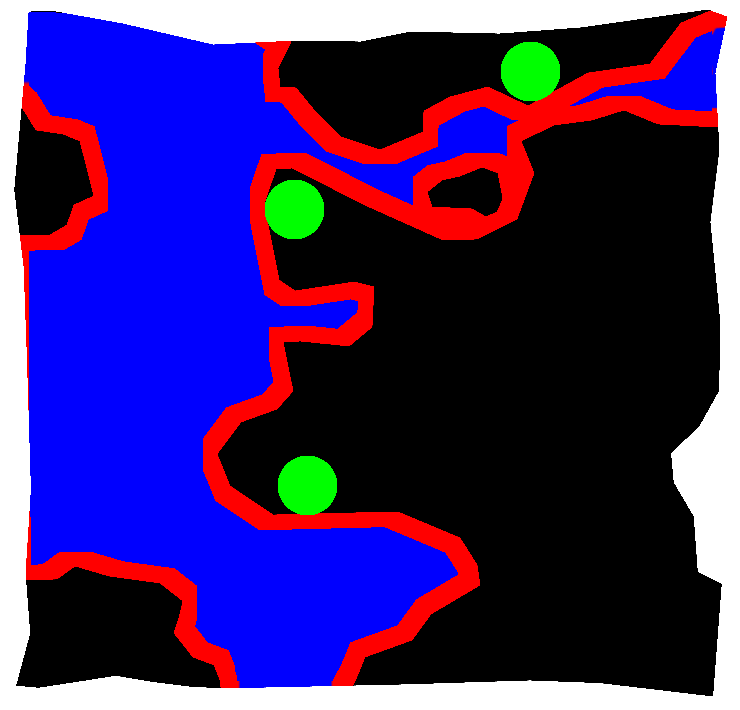
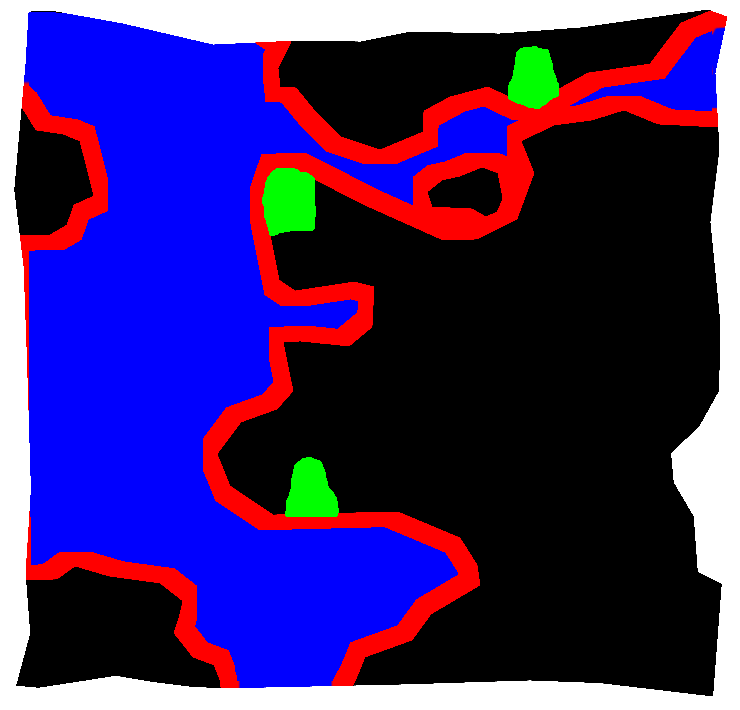
made city areas bigger improved anchor logic during moves

Changed region(s): [[0.6527, 0.062, 0.777, 0.1549], [0.3419, 0.2169, 0.4351, 0.3408], [0.373, 0.6507, 0.4662, 0.7437]]

diff --git a/server/api/models/game.ts b/server/api/models/game.ts
@@ -69,6 +69,8 @@ export class Game {
         var playernumber: number = this.players.size + 1;
 
         var ship = this.createShip(playernumber + '-1', pirate.avatar, type);
+        ship.location.x = 245;
+        ship.location.y = 225;
         ship.captain = pirate.name;
         ship.gold = 120;
         ship.name = shipname;
@@ -153,6 +155,7 @@ export class Game {
             storage: def.storage,
             location: { x: 100, y: 200 },
             anchored: true,
+            docked: false,
             crew: crew,
             name: Names.ship(),
             captain: Names.captain(Math.random() < 0.5)
@@ -260,7 +263,10 @@ export class Game {
         return (0xFF == pixel);
     }
     iscity(pixel): boolean {
-        return (0xFF00FF == pixel);
+        // city color (green) doesn't always work!
+        //return (0xFF00FF == pixel);
+        return (0xFF00FF == pixel || !(this.isinland(pixel) || this.isoutofbounds(pixel)
+            || this.iswater(pixel)));
     }
     isoutofbounds(pixel): boolean {
         return (0xFFFFFFFF == pixel);
@@ -448,16 +454,25 @@ export class Game {
         var my: Game = this;
         console.log('starting game loop');
         var updateShipLocation = function (ship: Ship, player?: Player) {
-            if (!ship.anchored) {
+            if (!(ship.anchored || ship.docked)) {
                 var newx = ship.location.x + ship.course.speedx;
                 var newy = ship.location.y + ship.course.speedy;
 
-                var pixel = my.mapguide.getPixelColor(newx, newy);
+                var pixel: number = my.mapguide.getPixelColor(newx, newy);
+                //console.log('pixel at (' + Math.floor(newx) +
+                  //  ',' + Math.floor(newy) + '): ' + pixel.toString(16)+ '('+pixel+')');
                 if (my.isnavigable(pixel)) {
                     ship.location.x = newx;
                     ship.location.y = newy;
+
+                    if (my.iscity(pixel)) {
+                        console.log('in city!');
+                        ship.anchored = true;
+                        ship.docked = true;
+                    }
                 }
                 else {
+                    console.log('not navigable?');
                     ship.anchored = true;
                     if (my.isinland(pixel)) {
                         ship.hullStrength -= 1;
@@ -467,16 +482,13 @@ export class Game {
                     }
                 }
 
-                // if we overshoot our dst, stop
-                // FIXME: this doesn't always work
-                if (((ship.course.speedx < 0 && ship.location.x < ship.course.dstx) ||
-                    (ship.course.speedy > 0 && ship.location.x > ship.course.dstx)) &&
-                    ((ship.course.speedy < 0 && ship.location.y < ship.course.dsty) ||
-                        (ship.course.speedy > 0 && ship.location.y > ship.course.dsty))) {
+                var nextx = ship.location.x + ship.course.speedx;
+                var nexty = ship.location.y + ship.course.speedy;
+                if ((Math.abs(nextx - ship.course.dstx) < 1) &&
+                    ((Math.abs(nexty - ship.course.dsty) < 1))) {
                     ship.anchored = true;
-                    // move ship exactly to our dst (just tidying up a bit)
-                    //ship.location.x = ship.course.dstx;
-                    //ship.location.y = ship.course.dsty;
+                    ship.location.x = ship.course.dstx;
+                    ship.location.y = ship.course.dsty;
                 }
             }
         }

diff --git a/server/api/controllers/ship-controller.ts b/server/api/controllers/ship-controller.ts
@@ -59,6 +59,7 @@ export class ShipController {
             speedy: speedy
         };
         this.one(shipid).anchored = false;
+        this.one(shipid).docked = false;
     }
 
     fire(from: string, at: string) {

diff --git a/common/model/ship-definition.ts b/common/model/ship-definition.ts
@@ -1,7 +1,7 @@
 export interface ShipDefinition {
     cannons: number,
     crewsize: number,
-    storage:number,
+    storage: number,
     speed: number,
     manueverability: number,
     hull: number

diff --git a/common/model/ship.ts b/common/model/ship.ts
@@ -23,5 +23,6 @@ export interface Ship {
     gold?: number,
     location: Location,
     course?: Course,
-    anchored: boolean
+    anchored: boolean,
+    docked: boolean
 }
